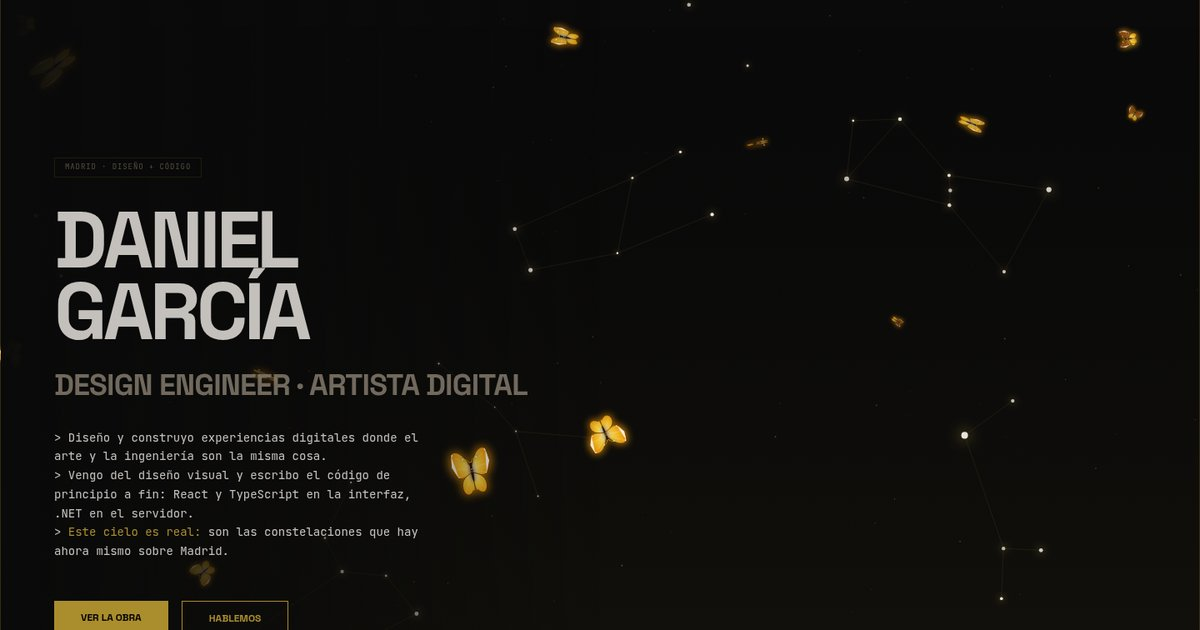
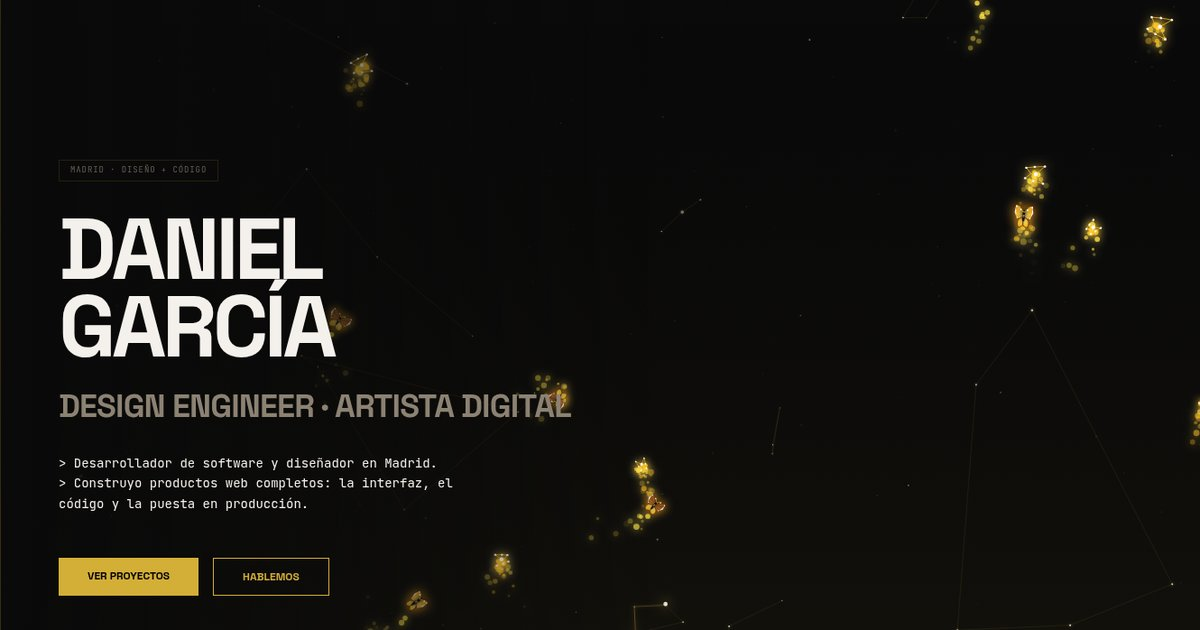
fix: vista previa al compartir actualizada y últimos textos claros

diff --git a/src/App.jsx b/src/App.jsx
@@ -37,7 +37,7 @@ const WORK_STEPS = [
 ];
 
 const MAISON_SERVICES = [
-  { n: '01', title: 'Digital Boutique', desc: 'Webs de marca a medida: rápidas, cuidadas al detalle y fáciles de encontrar.' },
+  { n: '01', title: 'Webs a medida', desc: 'Webs de marca rápidas, cuidadas al detalle y fáciles de encontrar en Google.' },
   { n: '02', title: 'Experiencias interactivas', desc: 'Piezas generativas con movimiento y sonido para marcas, artistas y eventos.' },
   { n: '03', title: 'Presencia para artistas', desc: 'Portafolios y EPK para músicos y creadores, con contacto y reservas directas.' },
 ];
@@ -124,7 +124,7 @@ const PORTFOLIO_PROJECTS = [
     }
   },
   { 
-    id: '09', title: 'Aurum-CRM', subtitle: 'SISTEMA EMPRESARIAL (.NET 10 + REACT TS)', desc: 'CRM completo en .NET y React, con arquitectura limpia y CQRS.', url: '', github: 'https://github.com/DSidCode/Aurum-CRM', tag: 'Proyecto Personal / Showcase Técnico', cat: 3, categoryName: 'Ingeniería',
+    id: '09', title: 'Aurum-CRM', subtitle: 'SISTEMA EMPRESARIAL (.NET 10 + REACT TS)', desc: 'CRM completo en .NET y React, con arquitectura limpia y CQRS.', url: '', github: 'https://github.com/DSidCode/Aurum-CRM', tag: 'Proyecto personal', cat: 3, categoryName: 'Ingeniería',
     media: ['/screenshots/aurum/aurum_1.webp', '/screenshots/aurum/aurum_2.webp', '/screenshots/aurum/aurum_3.webp', '/screenshots/aurum/aurum_4.webp', '/screenshots/aurum/aurum_5.webp', '/screenshots/aurum/aurum_6.webp'],
     stack: ['.NET 10', 'C#', 'MediatR (CQRS)', 'EF Core', 'React 19', 'TypeScript', 'Tailwind CSS', 'xUnit'],
     caseStudy: {

diff --git a/CHANGELOG.md b/CHANGELOG.md
@@ -19,6 +19,7 @@ Todos los cambios notables en este proyecto (01_Web_Activa_Vite) serán document
   - Tarjetas pequeñas muestran la descripción en móvil.
   - Modal: a pantalla completa en móvil, botón de cerrar fijo arriba a la derecha, sin doble scroll y con menos márgenes. Se cierra con Escape (`role="dialog"`).
   - Navegación interna con `goToSection` (App.jsx): desplazamiento suave hecho con `requestAnimationFrame` y compensación de la barra fija. Se elimina `scroll-behavior: smooth` del CSS porque no avanzaba en navegadores móviles (el menú móvil y "Ver la obra" cambiaban la URL pero no desplazaban la página). Respeta `prefers-reduced-motion`.
+- **Revisión final antes de publicar:** la imagen de vista previa al compartir (`og-image.jpg`) se regenera con el hero actual; la anterior mostraba la frase antigua en WhatsApp y LinkedIn. Maison: el servicio "Digital Boutique" pasa a "Webs a medida". Aurum: etiqueta "Proyecto personal" (antes "Proyecto Personal / Showcase Técnico"). Enlaces externos comprobados.
 - **Corrección:** Asociación Creando Sueños deja de llamarse "ONG" (así se había escrito en una versión anterior y se arrastró). Su propia web se presenta como "Asociación sin ánimo de lucro" y "Asociación Registrada en Madrid". Subtítulo: "WEB PARA UNA ASOCIACIÓN"; descripción: "Web de una asociación sin ánimo de lucro de apoyo a migrantes…". Corregido también en el CV y en el README del perfil de GitHub.
 - **Textos claros (tras la opinión de una usuaria):** la personalidad se queda en lo visual; los nombres y textos pasan a decir las cosas directamente.
   - Menú: Obra → **Proyectos**, Proceso → **Cómo trabajo**, Maison Quintessence → **Estudio**.

diff --git a/RESUMEN_SESION.md b/RESUMEN_SESION.md
@@ -31,4 +31,4 @@
 - **Quimera Autómata:** revisar bugs y el rendimiento del Motor 5.
 - **ERÊS:** mejorar la usabilidad de la carta celeste.
 - **Quimera-Sniper-Bot:** sacar del repositorio público el PDF del historial de trading y los registros personales. Subir la corrección de `radar.html`.
-- **CV:** confirmar lo de los "2.500 usuarios concurrentes".
+- ~~**CV:** confirmar lo de los "2.500 usuarios concurrentes".~~ Hecho (28-09): no era real; La Leyenda del Dorado queda como Diseñador Gráfico en el CV.
